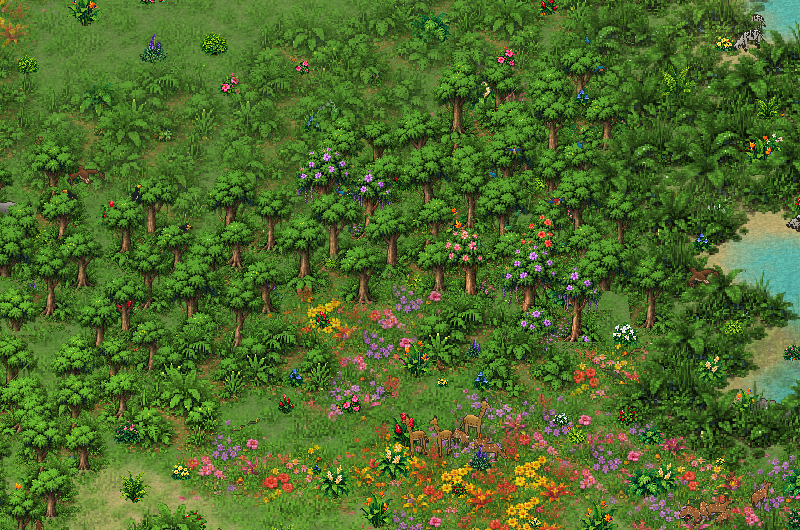
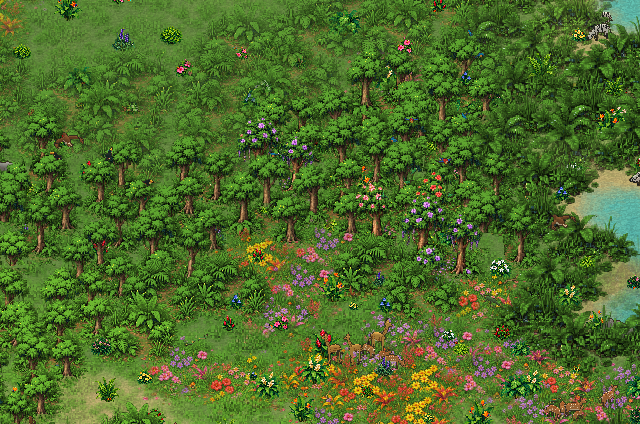
Auto-scroll the README preview and catalog jungle artifacts

diff --git a/scripts/readme-preview.ts b/scripts/readme-preview.ts
@@ -3,14 +3,16 @@ import {readFile,writeFile} from 'node:fs/promises';
 import {MemoryRenderer} from '../src/iso/render';
 import type {AtlasManifest} from '../src/jungle/scene';
 import {InfiniteWorld} from '../src/jungle/infinite';
-import {cameraBounds,composeInfinite} from '../src/jungle/infinite-scene';
+import {cameraBounds,composeInfinite,panCamera} from '../src/jungle/infinite-scene';
+import {CONFIG} from '../src/config';
 
-/** Offline README clip: the real scene/simulation, fixed camera, five seconds at
- * 20 fps. Three 60 Hz ticks per frame keep motion at its normal playback speed.
+/** Offline README clip: the real scene/simulation and auto-scroll, five seconds at
+ * 10 fps. Six 60 Hz ticks per frame keep motion at its normal playback speed.
  * This uses the same committed atlas and painter ordering as the browser.
  */
-const width=800,height=530,fps=20,seconds=5,frames=fps*seconds;
-const view={width,height,pixelRatio:1,zoom:.58,grid:false,cameraX:6.524,cameraY:1.301};
+// Capture the same field of view at thumbnail resolution to bound the GIF size.
+const pixelRatio=.8,width=640,height=424,fps=10,seconds=5,frames=fps*seconds;
+const view={width,height,pixelRatio,zoom:.58,grid:false,cameraX:6.524,cameraY:1.301};
 const world=new InfiniteWorld(2718);
 const atlas:AtlasManifest=JSON.parse(await readFile('public/assets/jungle.json','utf8'));
 const raw=await sharp('public/assets/jungle.png').ensureAlpha().raw().toBuffer({resolveWithObject:true});
@@ -21,12 +23,16 @@ const pages=Buffer.alloc(width*height*4*frames);
 for(let frame=0;frame<frames;frame++){
  renderer.render(composeInfinite(world,atlas,view,1));
  pages.set(renderer.pixels.data,frame*width*height*4);
+ // Capture steady automatic travel using the browser's speed/projection, and
+ // stream the next visible region before its fixed simulation ticks.
+ panCamera(view,CONFIG.camera.driftSpeed*view.pixelRatio/fps,0);
+ world.ensure(cameraBounds(view));
  for(let tick=0;tick<60/fps;tick++)world.update(1/60);
  if((frame+1)%20===0)console.log(`Rendered ${frame+1}/${frames} frames`);
 }
 // A restrained palette with no diffusion preserves crisp pixel-art texture.
 const gif=await sharp(pages,{raw:{width,height:height*frames,channels:4,pageHeight:height}})
- .gif({loop:0,delay:Array(frames).fill(1000/fps),colours:256,dither:0,effort:7,interFrameMaxError:0})
+ .gif({loop:0,delay:Array(frames).fill(1000/fps),colours:128,dither:0,effort:7,interFrameMaxError:0})
  .toBuffer();
 const metadata=await sharp(gif,{animated:true}).metadata();
 const duration=metadata.delay?.reduce((sum,delay)=>sum+delay,0);

diff --git a/README.md b/README.md
@@ -4,7 +4,7 @@ An endlessly scrolling animated isometric pixel-art jungle with vegetation, bird
 
 Built in TypeScript with **no runtime dependencies**, using WebGL, Canvas fallback and a real headless RGBA renderer. Independent agent classes and bounded procedural-world libraries sit alongside the reusable isometric components. Everything runs as a static site.
 
-![Five seconds in the living jungle, with swaying flowers, rustling foliage and roaming wildlife](docs/preview.gif)
+![Five seconds auto-scrolling through the living jungle, with swaying flowers, rustling foliage and roaming wildlife](docs/preview.gif)
 
 [Still image](docs/preview.png) · Regenerate with `npm run readme:preview`.
 
@@ -47,7 +47,7 @@ To change application defaults, edit [src/config.ts](src/config.ts), then rebuil
 | `Enter` / `Return` | Show or hide the bottom menu (hidden by default) |
 | Arrows / WASD / drag | Travel without an island boundary; drift resumes 3 seconds after navigation ends |
 | Shift + arrows / WASD | Travel faster |
-| `J` | Cycle all 21 animal habitats; briefly pause camera drift (whales surface intermittently) |
+| `J` | Cycle all 25 animal habitats; briefly pause camera drift (whales surface intermittently) |
 | `N` | Visit dry scrub, meadow, lake, forest, then a stream |
 | `O` / Settings | With overlays visible: adjust vegetation, wildlife, water, lake size, clearings, hills and sound |
 | `?` | With overlays visible: FPS, per-stage CPU timing, world/cache/memory statistics and keyboard guide |
@@ -60,6 +60,48 @@ To change application defaults, edit [src/config.ts](src/config.ts), then rebuil
 | `Home` / `0` | Return to the seeded starting forest |
 | `G` | Show tile seams |
 | `Esc` | Close settings or the field guide |
+
+## Artifacts
+
+### Wildlife
+
+- **Birds:** toucans, macaws and parakeets (parrots), kingfishers, seagulls, hawks and vultures.
+- **Predators:** jaguars, wolves and crocodiles.
+- **Large herbivores:** deer and fawns, zebras, giraffes and elephants.
+- **Primates:** monkeys and orangutans.
+- **Other mammals:** black bears and cubs, squirrels, wild boar and beavers.
+- **Snakes and amphibians:** solitary boas, smaller striped snakes and toads.
+- **Aquatic wildlife:** fish schools and surfacing whales.
+- **Decorative insects:** fluttering butterflies and firefly-like glints.
+
+### Trees and canopies
+
+- **Broadleaf trees:** tall tiered crowns, forked and asymmetric crowns, airy young trees and dense mature forms.
+- **Palms:** fan palms and feather palms.
+- **Banana plants:** broad-leaf clumps, taller forms and young shoots.
+- **Flowering and fruiting groves:** colorful blossoms, fruit-bearing crowns and clustered trees with individual trunks.
+- **Climbing foliage:** hanging vines and lianas.
+
+### Flowers, bushes and groundcover
+
+- **Flowers:** hibiscus, daisies, blue bellflowers, bird-of-paradise, lavender, red ginger, white starflowers and coral-and-cream wildflower clumps.
+- **Shrubs:** rounded small-leaf shrubs, berry bushes, broad-leaf tropical bushes, airy flowering bushes, pink-tipped bushes and cream-blooming bushes.
+- **Ferns:** tall feather ferns, low lime-green ferns and overlapping fern thickets.
+- **Groundcover:** grasses, meadow tufts, clover, wildflower carpets and leaf litter.
+- **Wetland plants:** mossy bank vegetation, reeds, sedges, lily pads and small aquatic plants.
+- **Additional source/fixture artwork:** flowering bromeliad rosettes and mushroom-covered rocks, alongside the individual tree and understory forms.
+
+### Landscape and atmosphere
+
+- **Terrain:** forest floor, grassy clearings, meadows, dry scrub, sandy shores, muddy banks and gently raised ground.
+- **Water:** lakes, ponds and connected flowing streams, with ripples, glints, foam and drifting woody debris.
+- **Small details:** fallen leaves, twigs, sparse root litter and weathered bones/hide at vulture feeding spots.
+- **Animation and weather:** rooted tree sway, rustling leaves and petals, drifting leaves, rain, dusk light, elephant spray and whale blows.
+
+### Soundscape
+
+- **Environment:** rustling leaves, water, rain and dusk insects.
+- **Wildlife:** bird whistles, trills, chatter, gull-like calls, woodpecker-like drumming, footsteps and recorded elephant trumpets.
 
 ## Documentation
 
